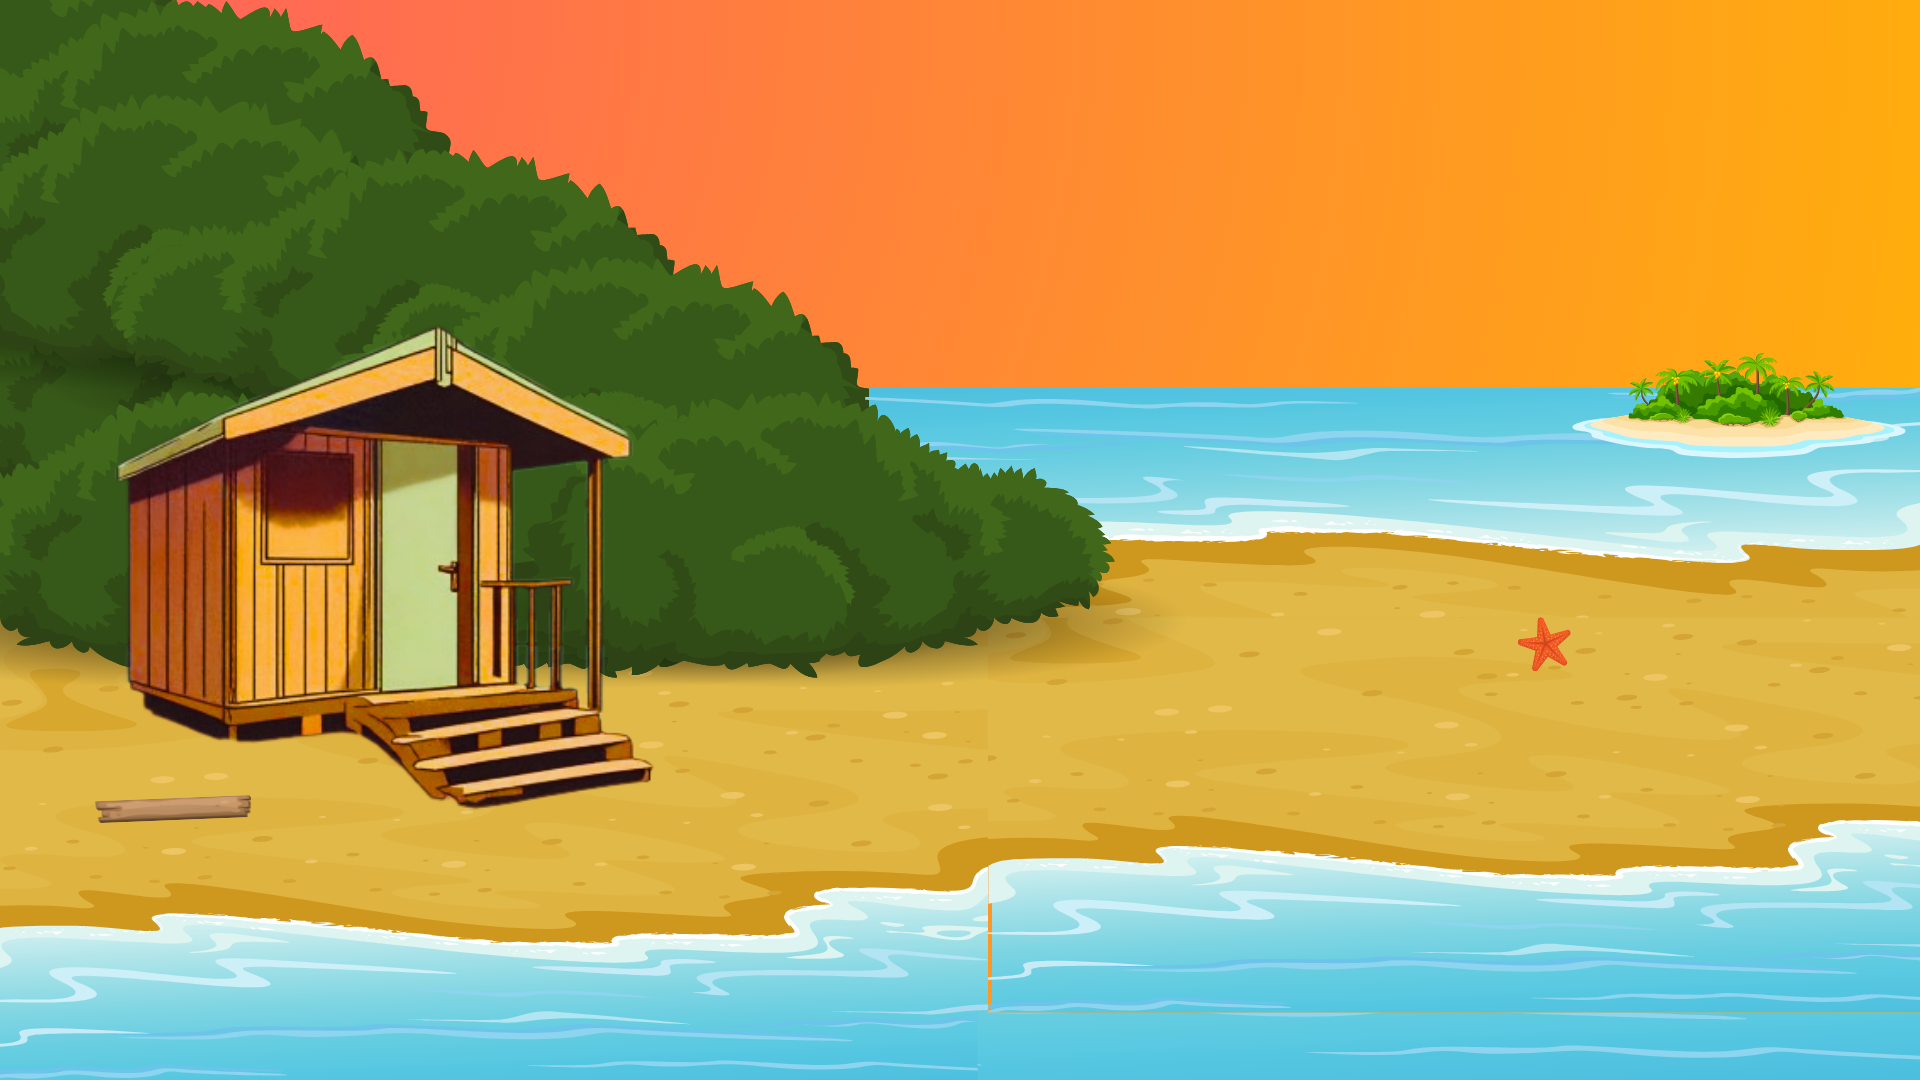
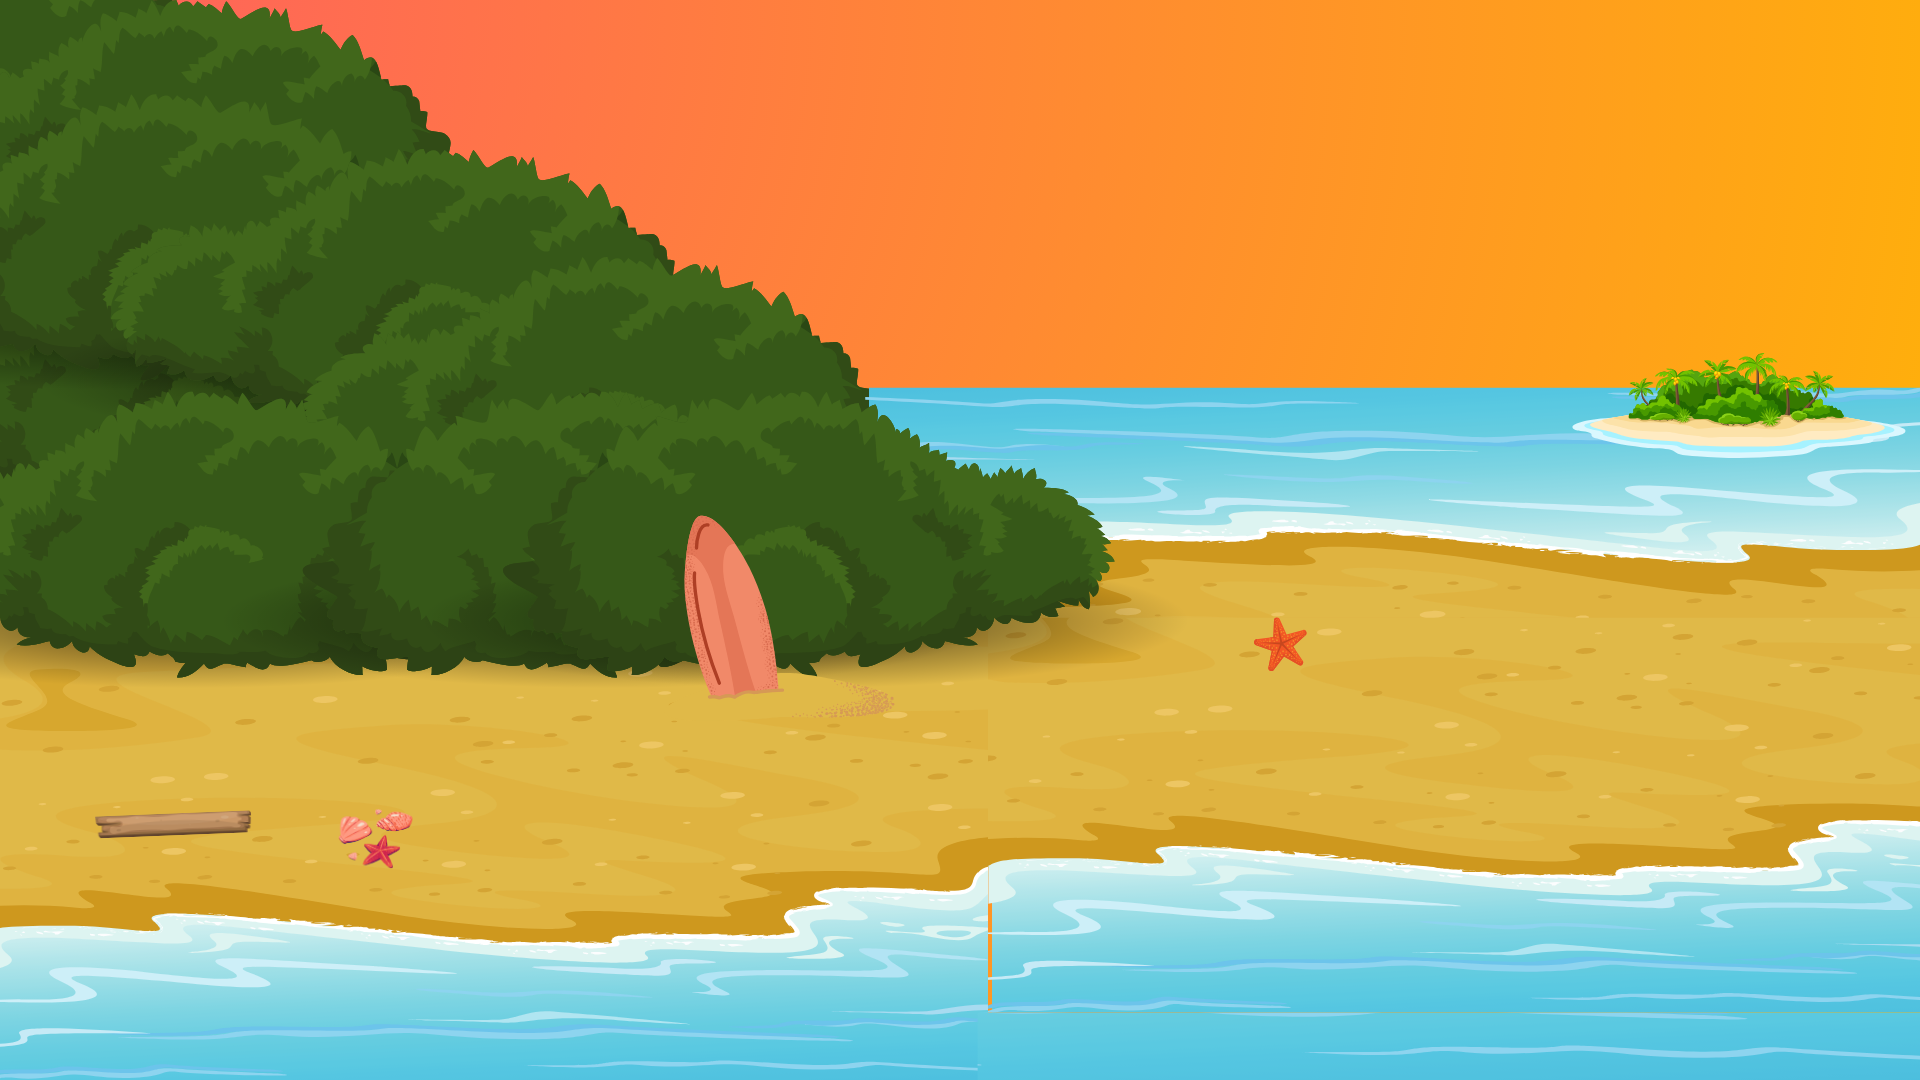
beach hut door

diff --git a/app/javascript/door.js b/app/javascript/door.js
@@ -1,9 +1,10 @@
 document.addEventListener("DOMContentLoaded", function () {
-  const door = document.getElementById("door");
+  const beachHut = document.querySelector(".beach-hut");
+  const door = document.getElementById("beach_hut_door");
 
-  door.addEventListener("click", () => {
+  beachHut.addEventListener("click", () => {
     console.log("Testing if door is clickable");
-    const doorImg = door.querySelector("img");
-    doorImg.style.visibility = "visible";
+    door.classList.remove("d-none");
+    beachHut.classList.add("d-none");
   });
 });

diff --git a/app/assets/stylesheets/beach.css b/app/assets/stylesheets/beach.css
@@ -187,3 +187,19 @@
     top: 87% !important;
   }
 }
+
+.beach-hut {
+  position: absolute;
+  top: 25%;
+  left: 5%;
+  width: 30%;
+  z-index: 1;
+}
+
+#beach_hut_door {
+  position: absolute;
+  top: 26.58%;
+  left: 5.1%;
+  width: 29.5%;
+  z-index: 1;
+}
